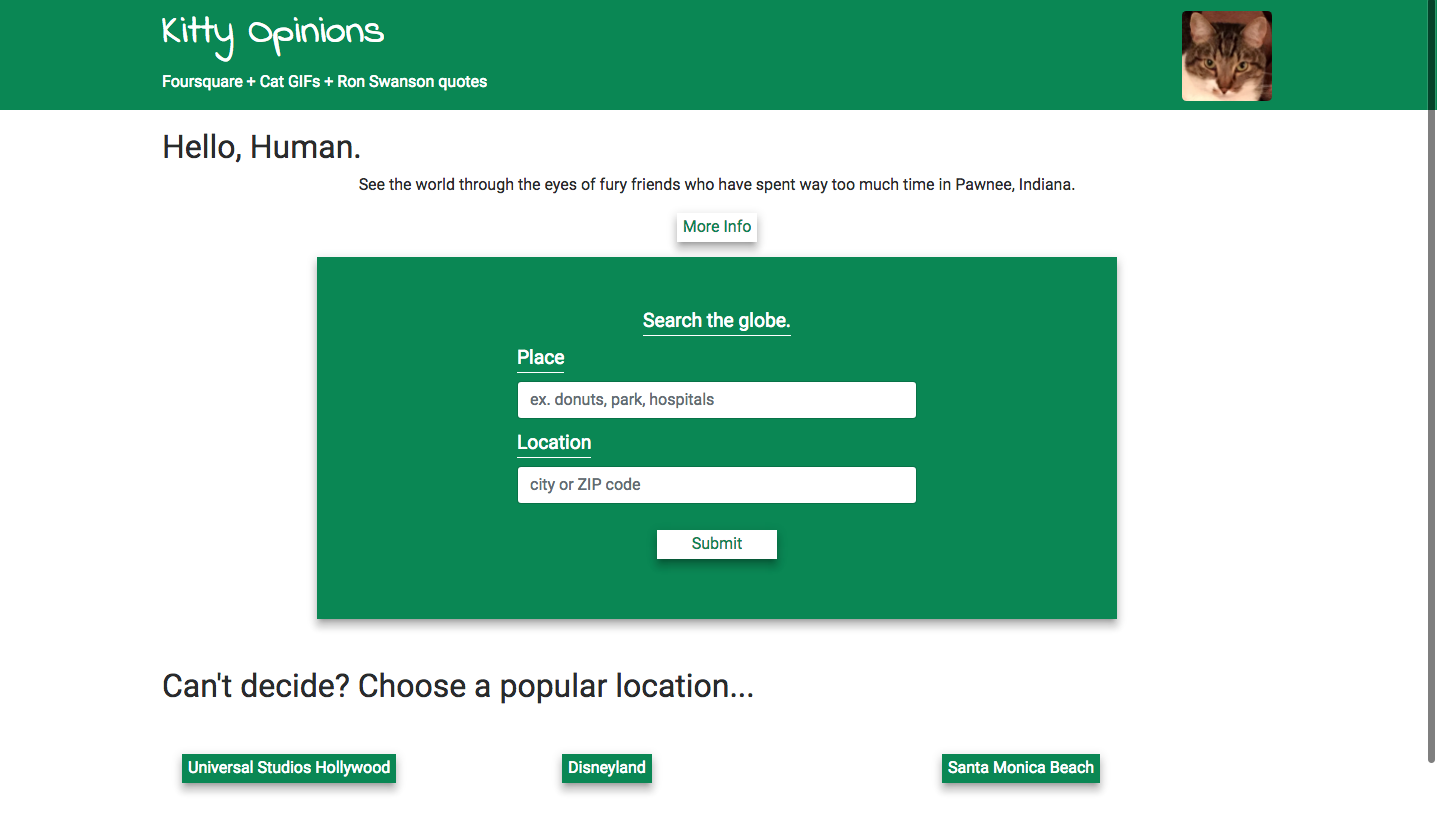
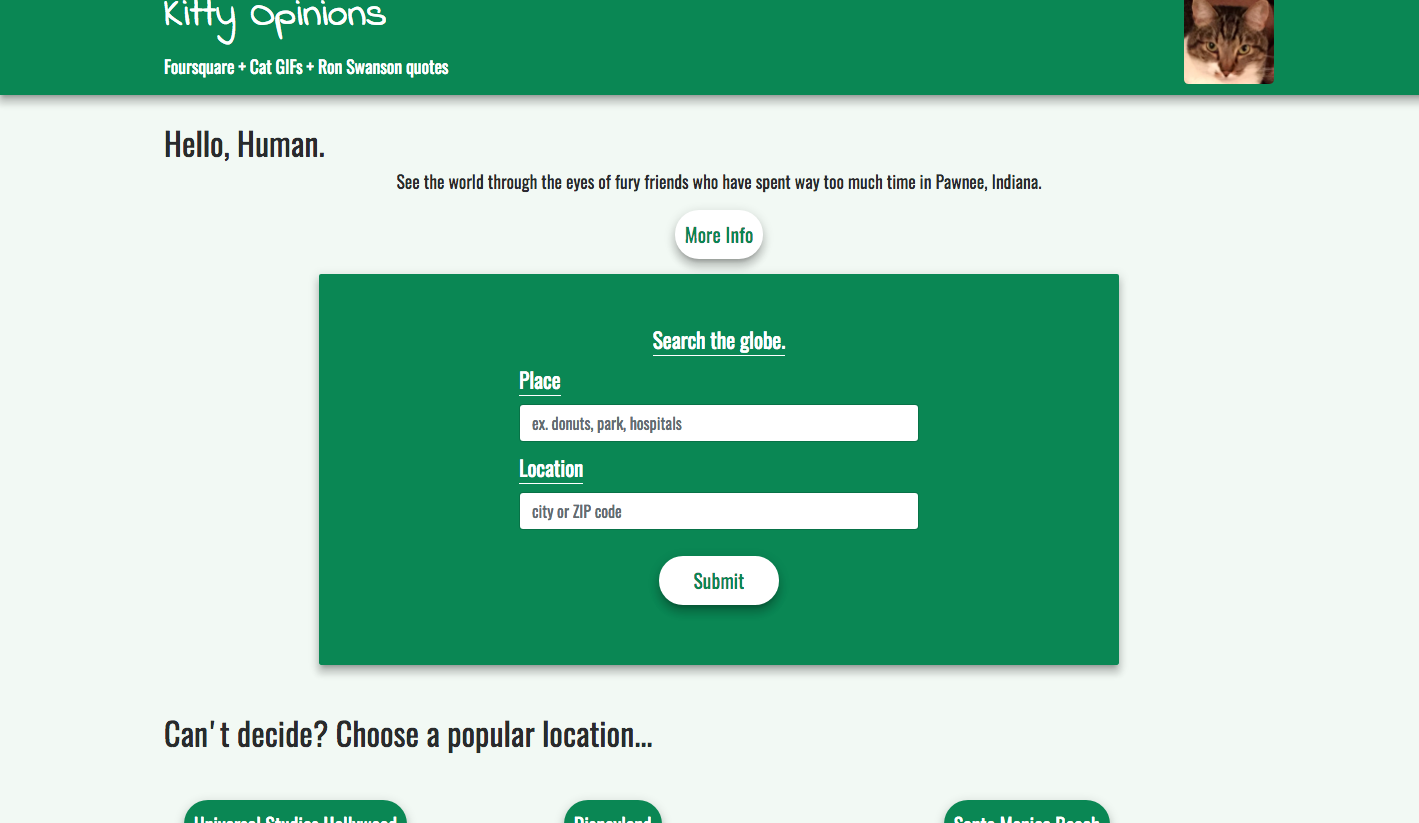
added responsiveness to projects and nav

diff --git a/index.html b/index.html
@@ -3,36 +3,50 @@
 <head>
     <title>L.J. Yockey</title>
     <meta charset="utf-8">
+    <meta name="viewport" content="width=device-width">
     <link href="https://maxcdn.bootstrapcdn.com/bootstrap/3.3.7/css/bootstrap.min.css" rel="stylesheet" integrity="sha384-BVYiiSIFeK1dGmJRAkycuHAHRg32OmUcww7on3RYdg4Va+PmSTsz/K68vbdEjh4u" crossorigin="anonymous">
     <link rel="stylesheet" type="text/css" href="css/main.css">
     <link rel="stylesheet" type="text/css" href="css/index.css">
 </head>
 <body>
    <header>
-        <nav class="container">
-            <div class="row">
-                <div class="col-md-6">
-                    <h1>L.J. Yockey</h1>
-                    <p>Web Developer</p>
-                </div>
-                <div class="col-md-6">
-                    <ul class="pull-right">
-                    <li id="active">Home</li>    
-                    <li><a class="scroll" href="#about">About</a></li>
-                    <li><a class="scroll" href="#portfolio">Portfolio</a></li>
-                    <li><a class="scroll" href="#contact">Contact</a></li>
-                    </ul>
-                </div>
-            </div>
+        <nav>
+            <ul class="site-nav">
+                <li><a class="scroll" href="#home">Home</a></li>   
+                <li><a class="scroll" href="#about">About</a></li>
+                <li><a class="scroll" href="#projects">Projects</a></li>
+                <li><a class="scroll" href="#contact">Contact</a></li>
+            </ul>
         </nav>
+        <div id="home">
+            <h1>L.J. Yockey</h1>
+            <p>Full-Stack Developer</p>
+            <ul>
+                <li>HTML</li>
+                <li>CSS</li>
+                <li>JavaScript</li>
+                <li>SQL</li>
+                <li>MongoDB</li>
+            </ul>
+            <ul>
+                <li>jQuery</li>
+                <li>Mongoose</li>
+                <li>Sequelize</li>
+                <li>Mocha/Chai</li>
+                <li>React</li>
+                <li>Redux</li>
+                <li>Enzyme</li>
+            </ul>
+            <ul>
+                <li>Git/GitHub</li>
+                <li>Heroku</li>
+                <li>Netlify</li>
+                <li>Travis CI</li>
+            </ul>
+        </div>
     </header> 
     
-    <div class="jumbotron">
-        <div class="container">
-        </div>
-    </div>
-    
-    <main>
+    <main class="container">
         
         <section class="about" id="about">
             <div class="bio">
@@ -41,54 +55,74 @@
             </div>
         </section>
 
-        <section class="portfolio" id="portfolio">
+        <hr>
 
-            <h2>Portfolio</h2>
+        <section class="projects" id="projects">
 
-            <div class="portfolio-piece" id="hospitalert-demo">
-                <img src="css/img/hospitalert-demo.png">
-                <div class="portfolio-details">
+            <h2>Projects</h2>
+
+            <div class="projects-piece row" id="hospitalert-demo">
+                <div class="col-md-6">
+                    <img src="css/img/hospitalert-demo.png">
+                </div>
+                <div class="projects-details col-md-6">
                     <h3>HospitAlert (Demo)</h3>
                     <p>Lorem ipsum dolor sit amet, consectetuer adipiscing elit. Aenean commodo ligula eget dolor. Aenean massa. 
                     Cum sociis natoque penatibus et magnis dis parturient montes, nascetur ridiculus mus. Donec quam felis, 
                     ultricies nec, pellentesque eu, pretium quis, sem. Nulla consequat massa quis enim. Donec pede justo, fringilla 
                     vel, aliquet nec, vulputate eget, arcu.</p>
+                    <p class="project-links"><a href="https://hospitalert.herokuapp.com/" target="blank" rel="noopener noreferrer">Live</a>
+                    <a href="https://github.com/Ljyockey/hospitalert" target="blank" rel="noopener noreferrer">GitHub</a></p>
                 </div>
             </div>
 
-            <div class="portfolio-piece" id="kitty-opinions">
-                <img src="css/img/opinions.png">
-                <div class="portfolio-details">
+            <div class="projects-piece row" id="kitty-opinions">
+                <div class="col-md-6">
+                    <img src="css/img/opinions.png">
+                </div>
+                <div class="projects-details col-md-6">
                     <h3>Kitty Opinions</h3>
                     <p>Lorem ipsum dolor sit amet, consectetuer adipiscing elit. Aenean commodo ligula eget dolor. Aenean massa. 
                     Cum sociis natoque penatibus et magnis dis parturient montes, nascetur ridiculus mus. Donec quam felis, 
                     ultricies nec, pellentesque eu, pretium quis, sem. Nulla consequat massa quis enim. Donec pede justo, fringilla 
                     vel, aliquet nec, vulputate eget, arcu.</p>
+                    <p class="project-links"><a href="https://ljyockey.github.io/kitty-opinions/" target="blank" rel="noopener noreferrer">Live</a>
+                    <a href="https://github.com/Ljyockey/kitty-opinions" target="blank" rel="noopener noreferrer">GitHub</a></p>
                 </div>
             </div>
 
-            <div class="portfolio-piece" id="disneyland-quiz">
-                <img src="css/img/disneyland-quiz.png">
-                <div class="portfolio-details">
+            <div class="projects-piece row" id="disneyland-quiz">
+                <div class="col-md-6">
+                    <img src="css/img/disneyland-quiz.png">
+                </div>
+                <div class="projects-details col-md-6">
                     <h3>Disneyland Quiz</h3>
                     <p>Lorem ipsum dolor sit amet, consectetuer adipiscing elit. Aenean commodo ligula eget dolor. Aenean massa. 
                     Cum sociis natoque penatibus et magnis dis parturient montes, nascetur ridiculus mus. Donec quam felis, 
                     ultricies nec, pellentesque eu, pretium quis, sem. Nulla consequat massa quis enim. Donec pede justo, fringilla 
                     vel, aliquet nec, vulputate eget, arcu.</p>
+                    <p class="project-links"><a href="https://ljyockey.github.io/disney-quiz/views/index.html" target="blank" rel="noopener noreferrer">Live</a>
+                    <a href="https://github.com/Ljyockey/disney-quiz" target="blank" rel="noopener noreferrer">GitHub</a></p>
                 </div>
             </div>
 
-            <div class="portfolio-piece" id="hot-and-cold">
-                <img src="css/img/hot-and-cold.png">
-                <div class="portfolio-details">
+            <div class="projects-piece row" id="hot-and-cold">
+                <div class="col-md-6">
+                    <img src="css/img/hot-and-cold.png">
+                </div>
+                <div class="projects-details col-md-6">
                     <h3>Hot or Cold</h3>
                     <p>Lorem ipsum dolor sit amet, consectetuer adipiscing elit. Aenean commodo ligula eget dolor. Aenean massa. 
                     Cum sociis natoque penatibus et magnis dis parturient montes, nascetur ridiculus mus. Donec quam felis, 
                     ultricies nec, pellentesque eu, pretium quis, sem. Nulla consequat massa quis enim. Donec pede justo, fringilla 
                     vel, aliquet nec, vulputate eget, arcu.</p>
+                    <p class="project-links"><a href="http://tycoon-clarence-47681.netlify.com/" target="blank" rel="noopener noreferrer">Live</a>
+                    <a href="https://github.com/Ljyockey/hot-and-cold" target="blank" rel="noopener noreferrer">GitHub</a></p>
                 </div>
             </div>
         </section>
+
+        <hr>
 
     </main>
     

diff --git a/css/main.css b/css/main.css
@@ -6,7 +6,7 @@ body {
     color: #000000;
 }
 
-h2, h3, p {
+h2, h3, p, li {
     font-family: courier;
 }
 
@@ -15,73 +15,95 @@ header {
     margin-top: 20px;
 }
 
-.pull-right {
-    padding-top: 30px;
-}
-
-#active {
-    margin-right: 20px;
+nav {
+    background-color: rgba(255,255,255,.95);
+    position: fixed;
+    top: 0;
+    left: 0;
+    width: 100%;
+    z-index: 10;
+    padding-top: 15px;
+    padding-bottom: 15px;
+    box-shadow: 0 4px 8px 0 rgba(0, 0, 0, 0.2), 
+    0 6px 20px 0 rgba(0, 0, 0, 0.19);
 }
 
 header a,
-#active {
-    padding: 10px;
+.project-links a {
     border: 1px solid #000000;
     border-radius: 80%;
 }
 
- a:hover,
-#active {
-    background-color: #000000;
-    color: #eee;
-} 
-
-
-
-li {
-    list-style-type: none;
-    display: inline;
-    padding-right: 20px;
+header a {
+    padding: 5px;
 }
 
-.about, .portfolio h2 {
+ a:hover {
+    background-color: #000000;
+    color: white;
+} 
+
+#home {
+    margin-top: 50px;
+    padding-top: 50px;
     text-align: center;
 }
 
-.portfolio-piece {
-    height: 500px;
-    background-color: lightgrey;
+
+
+ul li {
+    list-style-type: none;
+    display: inline-block;
+}
+
+
+.about, .projects h2 {
+    text-align: center;
+}
+
+.about {
     max-width: 70%;
-    height: 300px;
     margin-left: auto;
     margin-right: auto;
 }
 
-.portfolio-piece img {
-    max-width: 45%;
+hr {
+    border-style: inset;
+    border-width: 1px;
+    border-top: 1px solid rgba(0,0,0,.1);
+    box-sizing: content-box;
+}
+
+.projects-piece {
+    min-height: 500px;
+    background-color: lightgrey;
+    min-height: 300px;
+    margin: 0 auto 20px auto;
+    padding: 10px;
+    box-shadow: 0 4px 8px 0 rgba(0, 0, 0, 0.2), 
+    0 6px 20px 0 rgba(0, 0, 0, 0.19),
+    0 4px 8px 0 rgba(0, 0, 0, 0.2), 
+    0 6px 20px 0 rgba(0, 0, 0, 0.19);
+}
+
+.projects-piece img {
+    max-width: 100%;
     height: auto;
     float: right;
 }
 
-.portfolio-details, .portfolio-details p {
+.projects-details, .projects-details p:first-child {
     display: inline;
 }
 
-/*#hospitalert-demo {
-    background: url(img/hospitalert-demo.png) no-repeat center center scroll;
+.project-links {
+    text-align: center;
+    margin-top: 20px;
 }
 
-#kitty-opinions {
-    background: url(img/opinions.png) no-repeat center center scroll;
+.project-links a {
+    padding: 10px;
 }
-
-#disneyland-quiz {
-    background: url(img/disneyland-quiz.png) no-repeat center center scroll;
-}
-
-#hot-and-cold {
-    background: url(img/hot-and-cold.png) no-repeat center center scroll;
-}*/
 
 footer {
     margin-top: 50px;
@@ -104,4 +126,14 @@ footer a:hover {
 
 .visually-hidden {
     display: none;
+}
+
+@media only screen and (min-width: 640px) {
+    ul li {
+        padding-right: 20px;
+    }
+
+    header a {
+        padding: 10px;
+    }
 }

diff --git a/css/index.css b/css/index.css
@@ -1,10 +1,10 @@
-.jumbotron {
+header {
     background: url(img/guitar.jpeg) no-repeat center center scroll;
     height: 800px;
     background-size: cover;
 }
 
-.jumbotron h2 {
+header h2 {
     font-size: 2.2em;
     background-color: #BA8961;
     display: table-cell;
